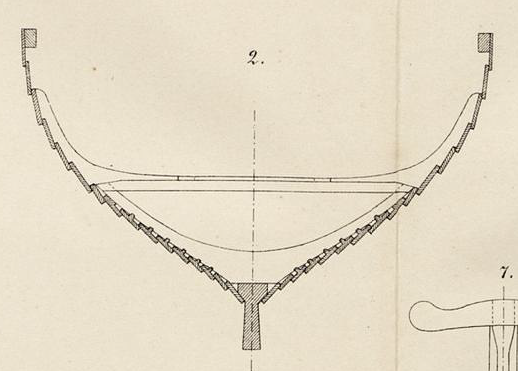
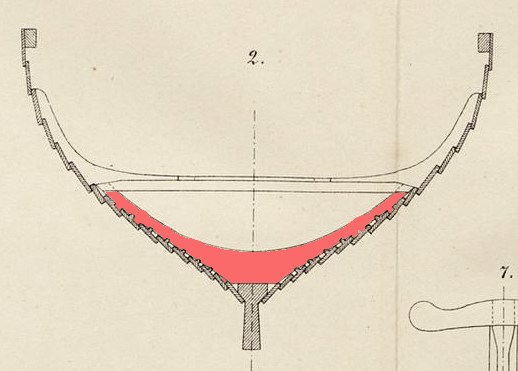
Addded annotations and images for biti and knee

Changed region(s): [[0.1853, 0.504, 0.8031, 0.7709]]

diff --git a/annotations/biti.md b/annotations/biti.md
@@ -2,20 +2,22 @@
 
 **_biti_** m. pl. _bitar_ (Old Norse) [citations: [prose](https://onp.ku.dk/onp/onp.php?o8513)] 
 
-  Lowest cross-beams in the frame that sit above the ribs to stiffen the ship transversely and support the deck boards above.  
+  Lowest cross-beams in the frame, which sit above the ribs, stiffen the ship transversely, and support the deck boards above.  
 
 <div align="center">
   
-  ![cross section the Gokstad ship with keel, ribs, and strakes](../images/Ribs_00_Gokstad.png)  
+  ![cross section the Gokstad ship with keel, ribs, and strakes](../images/Biti_Gokstad.png)  
   Cross section of the Gokstad ship showing the _biti_ above the rib (Nicolaysen Pl. II, Fig. 2)
 
 </div>
 
-  The frame of a Viking ship is formed by the transverse internal structural members: the floor timbers (ribs), beams and naturally curved knees that sit above them. Later ships have multiple beams, with the upper thrwarts seperating the rowing rooms and serving as rowing benches (Sørensen 16). The Gokstad ship and other early examples have only a single course of _bitis_ supported by central stanchions atop the ribs that in turn hold the deck boards (Bischoff 74).
+  The frame of a Viking ship is formed by the transverse internal structural members: the floor timbers (ribs), beams and naturally curved knees that sit above them (Sørensen 16). Later ships have multiple beams, with the upper thrwarts seperating the rowing rooms and serving as rowing benches (Jesch 151). The Gokstad ship and other early examples have only a single course of _bitis_ supported by central stanchions atop the ribs that in turn hold the deck boards (Bischoff 74).
 
 ---
 
   Bischoff, Vibeke. _The Oseberg Ship: Reconstruction of Form and Function_. Ships & Boats of the North, Volume 9. Roskilde: Viking Ship Museum, 2023.
+
+  Jesch, Judith. _Ships and Men in the Late Viking Age: The Vocabulary of Runic Inscriptions and Skaldic Verse._ NED-New edition. Woodbridge, Suffolk, UK ; Rochester, NY: Boydell & Brewer, 2001. https://www.jstor.org/stable/10.7722/j.ctt163tb4f.
 
   Nicolaysen, N. (1882). _Langskibet fra Gokstad ved Sandefjord._ Kristiania.
 

diff --git a/annotations/knee.md b/annotations/knee.md
@@ -1,0 +1,24 @@
+**_knee_** (English); _knæ_ (Danish); _Knie_ (German)
+
+_unattested_ (Old Norse)
+
+  Bracing angular timbers connecting beams to the upper strakes that also served as attachment points for rigging lines.  
+
+<div align="center">
+  
+  ![cross section the Gokstad ship with keel, ribs, and strakes](../images/Knee_Gokstad.png)  
+  Cross section of the Gokstad ship showing the knees above the _biti_ (Nicolaysen Pl. II, Fig. 2)
+
+</div>
+
+  Formed of naturally forked wood for strength, the  knees connect the horizontal _bitis_ or other thwart beams to the upper rows of strakes above the water line (Sørensen 16). Knees were also important for sailing a Viking ship, since they often had attachment points for the lines of the rigging. On the Oseberg ship, the backside of all the knees had semi-circular cutouts with beveled edges, which reconstructions have proven work well for attaching ropes and controlling the sail (Bischoff 182).
+
+---
+
+  Bischoff, Vibeke. _The Oseberg Ship: Reconstruction of Form and Function_. Ships & Boats of the North, Volume 9. Roskilde: Viking Ship Museum, 2023.
+
+  Nicolaysen, N. (1882). _Langskibet fra Gokstad ved Sandefjord._ Kristiania.
+
+  Sørensen, Anne C. _Ladby: A Danish Ship-Grave from the Viking Age._ Ships and Boats of the North 3. Roskilde: The Viking Ship Museum [u.a.], 2001.
+
+
